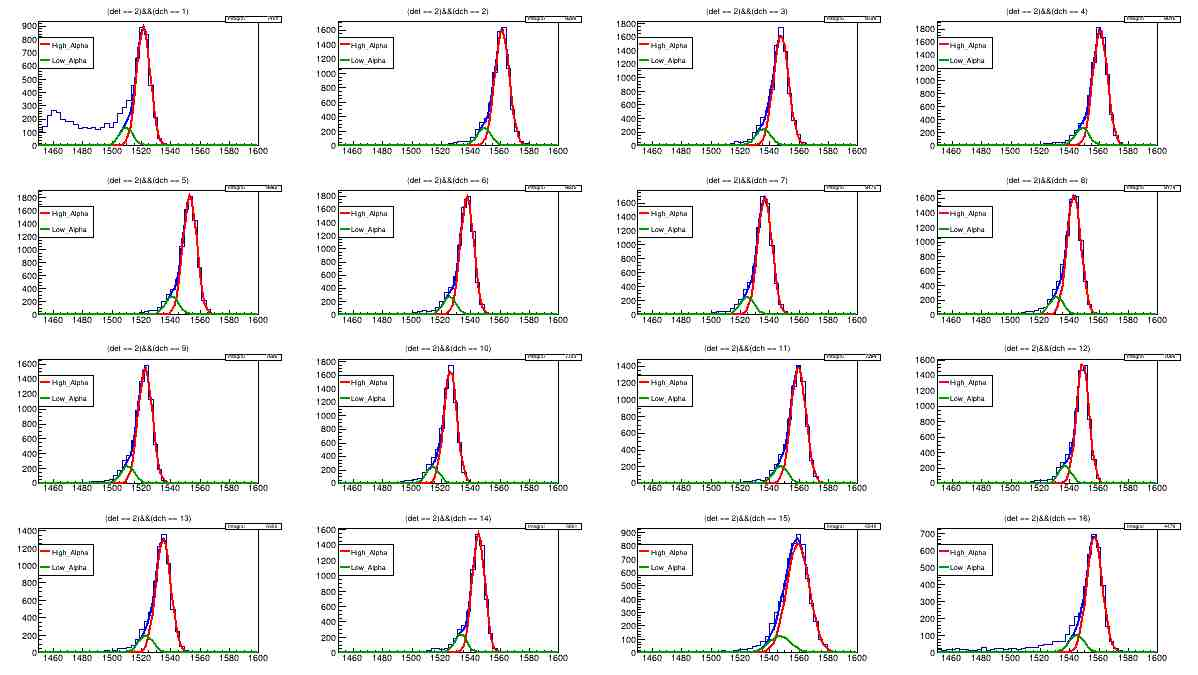
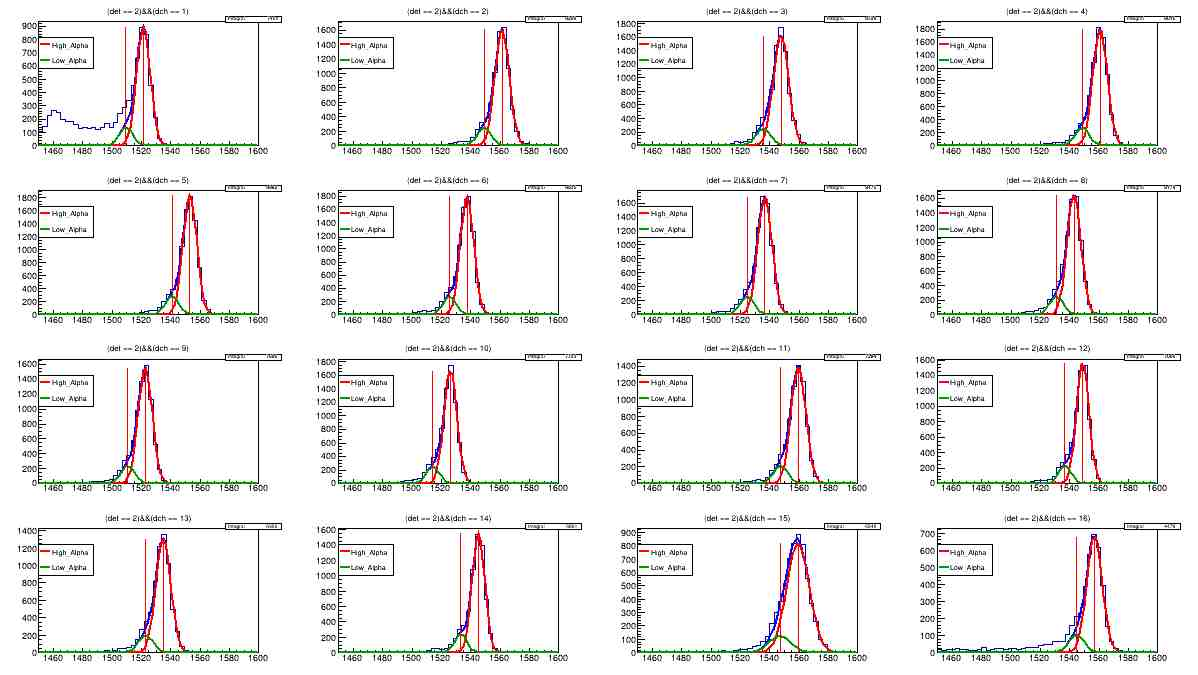
240816 v.5

diff --git a/prac_root/two_peak_240811.c b/prac_root/two_peak_240811.c
@@ -6,14 +6,11 @@ void Convert2APParameters(double *par, double &mean1, double &sigma1, double &am
 
 struct TwoDoubles{
 	double a;
-	double b;
 };
 TwoDoubles MatrixOperation(double mean1, double mean2){
 	TwoDoubles result;
 	double a = (HighAlpha - LowAlpha)/ (mean1 - mean2);
-	double b = HighAlpha - mean1*a;
 	result.a = a;
-	result.b = b;		
 	return result;
 }	
 void two_peak_240811(){
@@ -118,14 +115,18 @@ void two_peak_240811(){
 
 				if(det == 3){
 					if(dch == 22){
-						fit -> SetRange(2750, mean+ 3*sigma);
+						
+						fit -> SetParLimits(1,2900,mean +3*sigma);
+						fit -> SetParLimits(2,1200,1400);
+						
 					}
 					else if(dch == 23){
-						fit -> SetRange(2750, mean + 3*sigma);
+						fit -> SetRange(2800, mean + 3*sigma);
+						fit -> SetParLimits(2,700,1100);
+					
 					}
 				}
 
-				
 				hist -> Fit(fit,"RQN");
 				gStyle -> SetOptStat("i");
 				fit -> SetLineColor(kBlue);
@@ -140,15 +141,36 @@ void two_peak_240811(){
 				fit_peak1 -> SetParameters(amplitude1, mean1, sigma1);
 				fit_peak2 -> SetParameters(amplitude2, mean2, sigma2);
 //				fit_peak1 -> SetRange(mean1 - 0.5*sigma1, mean1 + 3 *sigma1);
+			
+				if(det == 3 && (dch == 22 || dch == 23)) {
+					cout << mean1 << " " << mean2 << endl;
+					cout << mean1/mean2 << " " << HighAlpha/LowAlpha << endl;
+						}	
+					
 				fit_peak1 -> SetLineColor(kRed);
 				fit_peak2 -> SetLineColor(kGreen+2);
 				fit_peak1 -> Draw("samel");
 				fit_peak2 -> Draw("samel");
+				double p0 = fit -> GetParameter(1);
+				double p1 = fit_peak1 -> GetParameter(1);
+				double p2 = fit_peak2 -> GetParameter(1);
+				cout << p0 << " is total avarage and " << p1 << "is the average of adc about HighAlpha" << endl;
+			/*	if(det == 3 && (dch == 22 || dch == 23)) {
+					cout << mean1 << " " << mean2 << endl;
+					cout << mean1/mean2 << " " << HighAlpha/LowAlpha << endl;
+					cout << p1/p2 << endl;
+						}	*/
 				TLegend *legend = new TLegend(0.1,0.6,0.3,0.8);
 				legend -> AddEntry(fit_peak1,"High_Alpha","l");
 				legend -> AddEntry(fit_peak2,"Low_Alpha","l");
 				legend -> Draw();
-				
+				TLine *line1 = new TLine(p1,0,p1,fit_peak1 -> GetMaximum());
+				TLine *line2 = new TLine(p2,0,p2,fit_peak1 -> GetMaximum());
+				line1 -> SetLineColor(kRed);
+				line2 -> SetLineColor(kRed);
+				line1 -> Draw();
+				line2 -> Draw();
+				cout << p1/p2 << endl;
 		/*		TMatrixD A(2,2);
 				A(0,0) = mean1; A(0,1) = 1;
 				A(1,0) = mean2; A(1,1) = 1;
@@ -184,17 +206,15 @@ void two_peak_240811(){
 				TwoDoubles sol = MatrixOperation(mean1,mean2);
 				if(hist -> GetEntries() == 0){
 					a = -999;
-					b = -999;
 				}
 				else{
 					 a = sol.a;
-					 b = sol.b;
 				}		
 						
 				detector = (Short_t)det;
 				channel = (Short_t)dch;
 				t1 -> Fill();
-				constant_file << a <<" " << b << " " << det << " " << dch << endl;
+				constant_file << a << " " << det << " " << dch << endl;
 				
 			//	cout << det << " "<< dch << " " << mean1 << " " << sigma1 << " " << mean2 << " " << sigma2 << endl;
 		//		cout << mean1 / mean2 << " " << 5.486 / 5.443 << endl;
@@ -208,8 +228,6 @@ void two_peak_240811(){
 
 	t1 -> Write();
 	t1 -> Print();
-	write -> Close();
-	constant_file.close();
 }
 
 

diff --git a/prac_root/root_hit.c b/prac_root/root_hit.c
@@ -29,8 +29,8 @@ void root_hit(){
 //		cout << tree -> GetEntries("det2 == 2") << endl;	
 //		cout << tree -> GetEntries("det1 == 2") << endl;	
 		TString namehist = Form("det1 == %d",2);
-		TH2D *hist = new TH2D(namehist,"q",10000,0,8000,10000,0,8000);
-		tree -> Draw("adc2:adc1",namehist,"COLZ");
+		TH2I *hist = new TH2I(namehist,"q",8000,0,8000,8000,0,8000);
+		tree -> Draw("adc2:adc1",namehist);
 		c1 -> SaveAs(Form("det1_2_dch2_%d.jpg",i));
 	}
 
